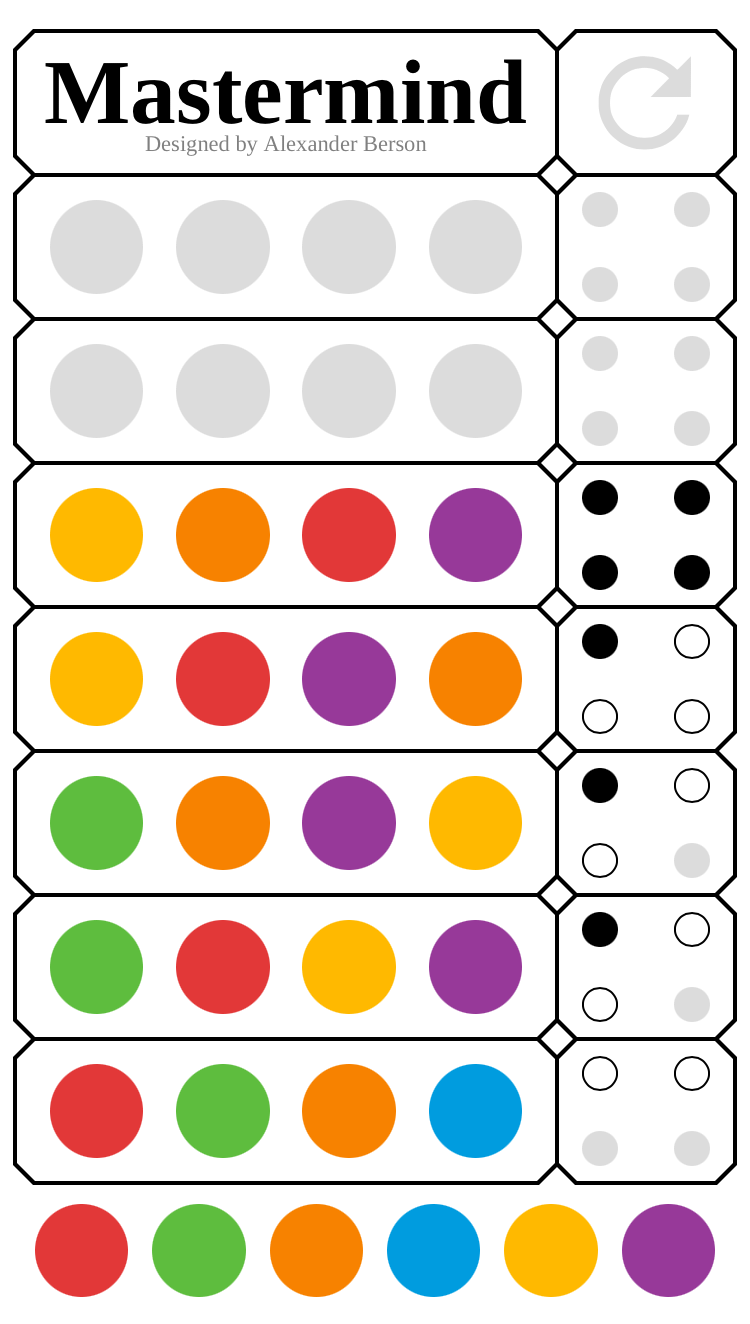
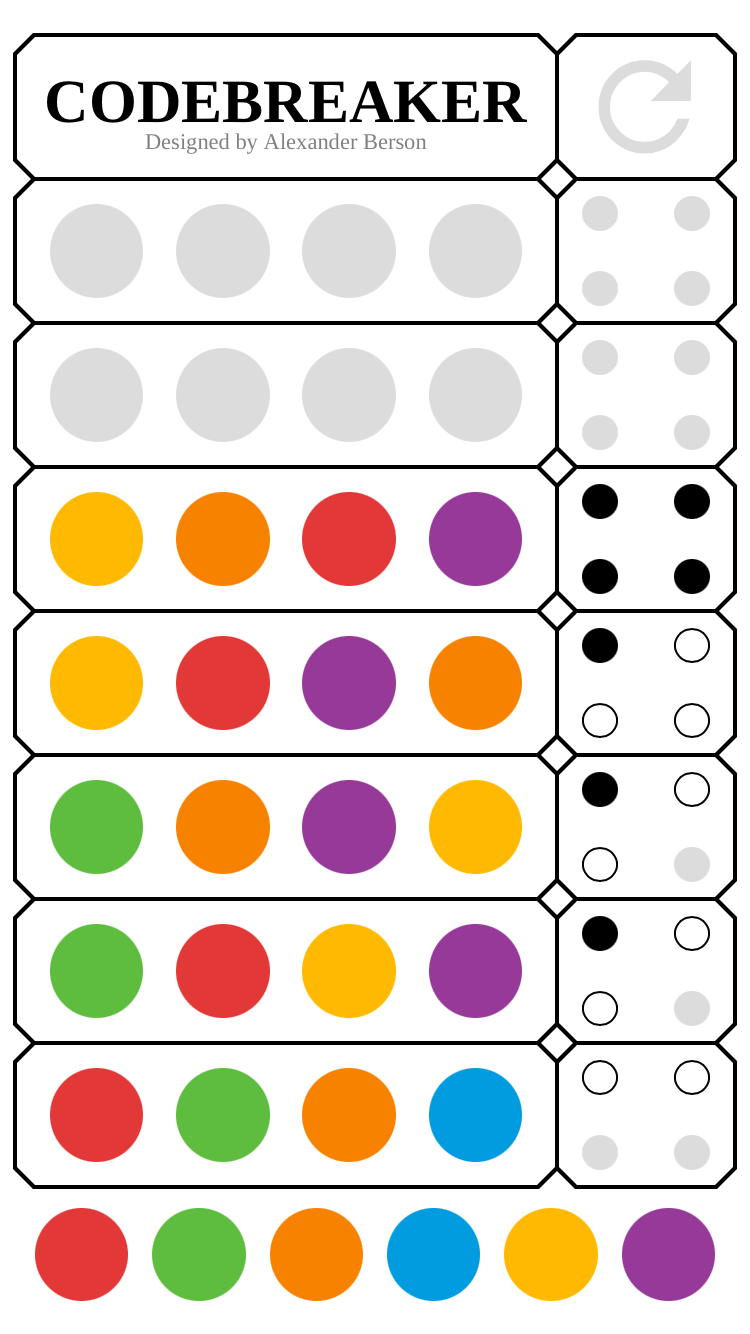
name change

diff --git a/index.html b/index.html
@@ -2,7 +2,7 @@
 <html lang="en" translate="no">
 <head>
     <meta charset="UTF-8">
-    <title>Mastermind</title>
+    <title>Codebreaker</title>
     <meta name="description" content="Following the hints, solve the secret code consisting of four different colors">
     <meta name="keywords" content="board,puzzle,game,play,online,color,code,break,solve,brain,mind,logic,school,kids,family">
     <meta name="author" content="Alexander Berson">
@@ -12,7 +12,7 @@
     <meta name="google" content="notranslate">
     <meta name="mobile-web-app-capable" content="yes">
     <meta name="apple-mobile-web-app-capable" content="yes">
-    <meta name="apple-mobile-web-app-title" content="Mastermind">
+    <meta name="apple-mobile-web-app-title" content="Codebreaker">
     <meta name="apple-mobile-web-app-status-bar-style" content="black-translucent">
     <link rel="icon" type="image/png" href="images/icons/favicon-96x96.png" sizes="96x96">
     <link rel="icon" type="image/svg+xml" href="images/icons/favicon.svg">
@@ -34,7 +34,7 @@
                             <div class="flipper">
                                 <div class="front">
                                     <div id="label">
-                                        <div id="title">Mastermind</div>
+                                        <div id="title">CODEBREAKER</div>
                                         <div id="subtitle">Designed by Alexander Berson</div>
                                     </div>
                                 </div>

diff --git a/js/mastermind.js b/js/mastermind.js
@@ -36,13 +36,19 @@ const setBoardSize = () => {
     const fullScreen = () => window.navigator.standalone || nativeApp();
     const nativeApp = () => !document.URL.startsWith('http://') && !document.URL.startsWith('https://');
 
+    let board = document.querySelector('.board');
+    let hole = document.querySelector('.hole-code');
     let n = fullScreen() ? screen.width / screen.height < 0.5 ? 10 : 9 : 8;
     let scaleX = touchScreen() ? screen.width > 460 && screen.height > 460 ? 0.75 : 0.97 : 0.6 * window.innerHeight / window.innerWidth;
     let scaleY = nativeApp() && screen.width / screen.height < 0.5 ? 1 : 0.97;
-
+    
     document.documentElement.style.setProperty('--board-size', n);
     document.documentElement.style.setProperty('--board-width', `${Math.ceil(document.documentElement.clientWidth * scaleX / 4) * 4}px`);
     document.documentElement.style.setProperty('--board-height', `${Math.ceil(document.documentElement.clientHeight * scaleY / n) * n}px`);
+
+    let ratio = hole.getBoundingClientRect().width / board.getBoundingClientRect().width;
+
+    document.documentElement.style.setProperty('--hole-board-ratio', ratio);
 }
 
 const generateCode = () => {

diff --git a/css/style.css b/css/style.css
@@ -25,6 +25,7 @@
     --notch-inner-size: 9px;
     --hole-code-size: 1.5;
     --hole-clue-size: 3.9;
+    --hole-board-ratio: 0.13;
     --outer: polygon(
                 0% var(--notch-outer-size), 
                 var(--notch-outer-size) 0%, 
@@ -176,16 +177,16 @@ body {
 }
 
 #title {
-    font-size: 12.2vmin;
+    font-size: calc(8.25vmin * (2 + var(--hole-board-ratio) / 0.13) / 3);
     font-weight: bold;
     margin: 0;
-    margin-top: -2vmin;
+    margin-top: 1vmin;
+
 }
 
 #subtitle {
     font-size: 3vmin;
-    margin-top: -0.7em;
-    margin-bottom: -0.3em;
+    margin-top: -0.5em;
     color: gray;
 }
 
@@ -386,7 +387,7 @@ body {
     }
 
     #title {
-        font-size: calc(var(--board-width) / 4 * 3 / 6.2);
+        font-size: calc(var(--board-width) / 4 * 3 / 8.9);
     }
     
     #subtitle {
@@ -410,8 +411,8 @@ body {
     }
 
     #title {
-        font-size: calc(var(--board-width) / 4 * 3 / 6);
-
+        font-size: calc(var(--board-width) / 4 * 3 / 8.9);
+        margin-top: 0.5vmin;
     }
     
     #subtitle {

diff --git a/service-worker.js b/service-worker.js
@@ -1,4 +1,4 @@
-const cacheName = 'cache-v3';
+const cacheName = 'cache-v4';
 
 const files = [
   '/mastermind/',

diff --git a/README.md b/README.md
@@ -6,7 +6,7 @@ You can [play Mastermind online](https://alex-berson.github.io/mastermind/) or <
 
 ## Description
 
-**Mastermind** or **Master Mind** is a classic game of logic and deduction. The object of the game is to solve a secret code consisting of four colored pegs by making guesses and following the hints. After each guess, the player receives feedback: _a black peg_ means the player has a correct color in the correct position. _A white peg_ means the player has a correct color in the wrong position.
+**Mastermind**, also known as **Codebreaker**, is a classic game of logic and deduction. The object of the game is to solve a secret code consisting of four colored pegs by making guesses and following the hints. After each guess, the player receives feedback: _a black peg_ means the player has a correct color in the correct position. _A white peg_ means the player has a correct color in the wrong position.
 
 ## Screenshot
 
@@ -16,5 +16,5 @@ You can [play Mastermind online](https://alex-berson.github.io/mastermind/) or <
 
 ## License
 
-Copyright &copy; 2021-2025 Alexander Berson. This project is licensed under the [MIT license](LICENSE.txt "MIT License").
+Copyright &copy; 2021-2026 Alexander Berson. This project is licensed under the [MIT license](LICENSE.txt "MIT License").
 
